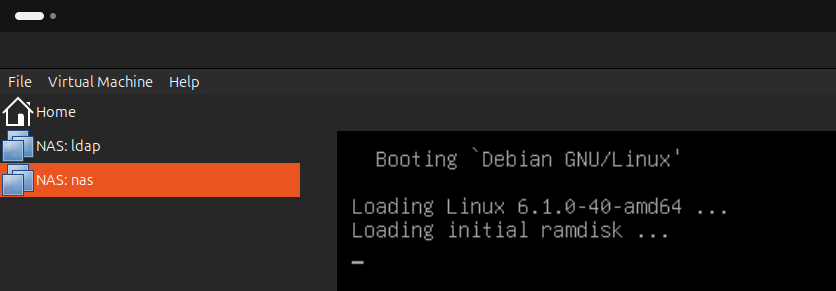
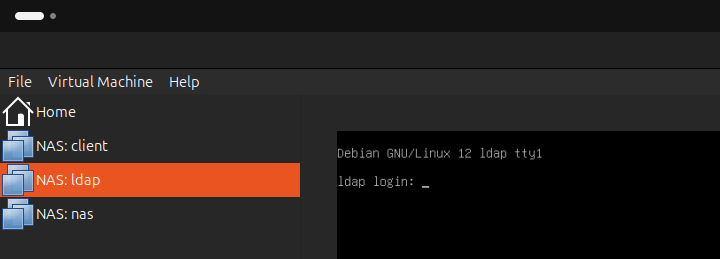
feat: add another server for client

Changed region(s): [[0.0, 0.2471, 1.0, 1.0], [0.0, 0.0309, 0.0917, 0.0927]]

diff --git a/NAS/README.md b/NAS/README.md
@@ -28,7 +28,7 @@ You can access all VMs using ssh
 ```
 vagrant ssh ldap
 vagrant ssh nas
-vagrant ssh backup
+vagrant ssh client
 ```
 Verify if all disk are recognized by nas server
 
@@ -64,7 +64,7 @@ ansible-playbook site.yml --ask-vault-pass --tags openldap
 
 
 Execute the scipt to automate ldif configurations
-``` 
+```
 cd /vagrant/ldap
 chmod +x ./ldapadd_script.sh
 ./ldapadd_script.sh
@@ -109,7 +109,7 @@ Next, we create an ext4 filesystem on the array and mount it at `/srv/shares`. A
 
 ![mkfs.ext4](screenshot/mkfs-ext4.png)
 
-> 6G because of the rule of RAID 5: (N-1) x size of smallest disk.  
+> 6G because of the rule of RAID 5: (N-1) x size of smallest disk.
 
 To save all configurations that we made, we should write the array definition, and it's `UUID` to `/etc/mdadm/mdadm.conf`. Then, update initramfs so it doesn't reflect the old configuration.
 
@@ -178,7 +178,7 @@ PrivateKey = <windows_private_key>
 [Peer]
 PublicKey  = <linux_public_key>
 Endpoint   = <VPN_server_IP>:51820
-AllowedIPs = 192.168.10.0/24     
+AllowedIPs = 192.168.10.0/24
 PersistentKeepalive = 25
 ```
 ![wg-config](screenshot/wireguard-config.jpeg)
